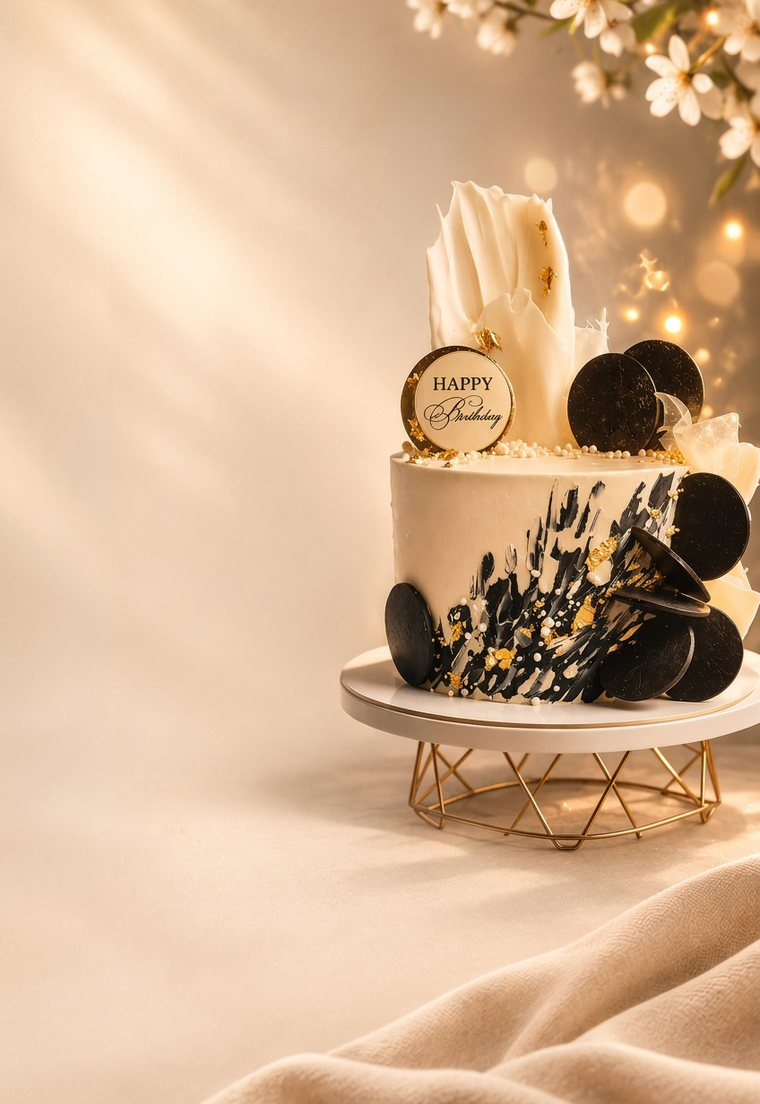
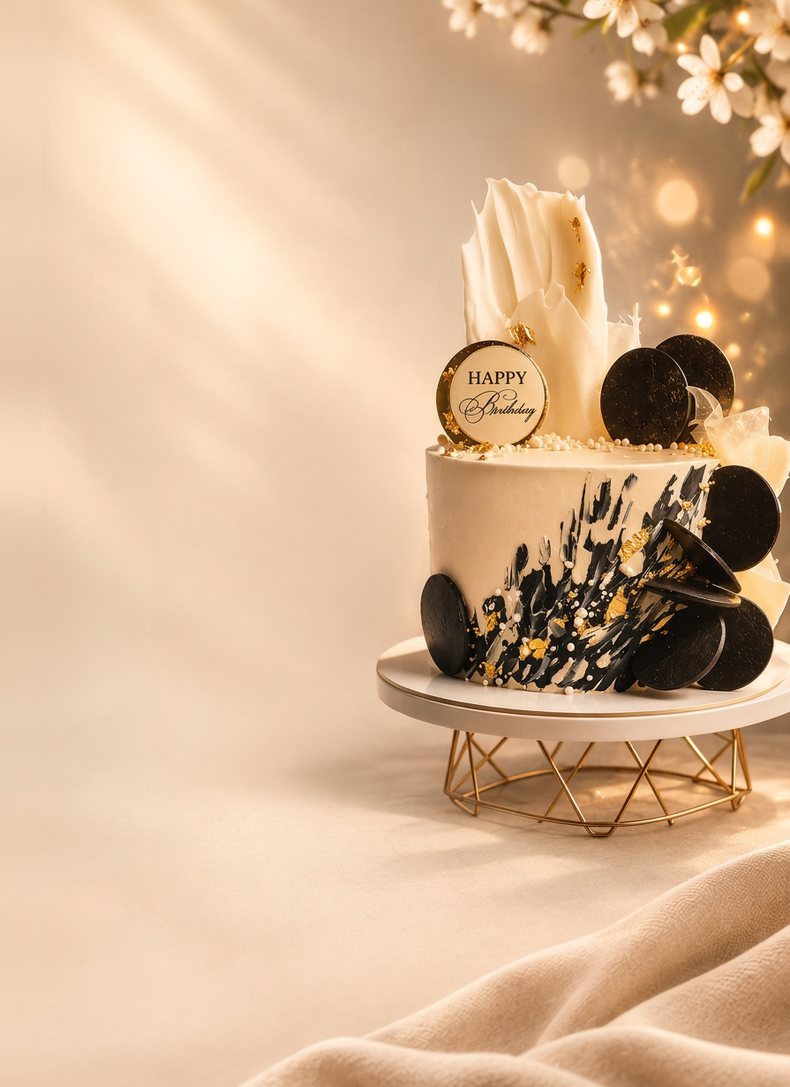
r19: заголовок не залезает на торт, мессенджеры без подписей, CTA «ЗАКАЗАТЬ»
- арт расширен полосой стены слева: торт ушёл правее, заголовок встал
  в три строки («Авторские / торты / и десерты») и больше не наезжает
- мессенджеры: только иконки по центру, волосяные разделители и лучи по краям;
  подписи WhatsApp/Telegram/MAX убраны
- «Индивидуальный подход» переехал под иконки мессенджеров
- CTA: «ЗАКАЗАТЬ» в стиле референса (Cormorant, капитель, золотистый тон)
- версии: final-fixes -> 20261116r19, sw r137

diff --git a/css/final-fixes.css b/css/final-fixes.css
@@ -1661,7 +1661,7 @@ html:not([data-theme="dark"]) body:has(.hero-tag) .price-card-note {
       linear-gradient(180deg, rgba(16, 10, 6, .34) 0%, rgba(16, 10, 6, 0) 14%);
   }
   [data-theme="dark"] body.mc-home .hero-art::after {
-    background: linear-gradient(180deg, rgba(14, 9, 5, 0) 40%, rgba(14, 9, 5, .4) 58%, rgba(14, 9, 5, .82) 74%, var(--cream) 88%);
+    background: linear-gradient(180deg, rgba(8, 5, 3, 0) 40%, rgba(8, 5, 3, .4) 58%, rgba(8, 5, 3, .82) 74%, #080503 88%);
   }
   /* кнопка на постере держит нижнюю линию, как в референсе */
   body.mc-home .hero .hero-actions { margin-top: 22px; }
@@ -1669,7 +1669,7 @@ html:not([data-theme="dark"]) body:has(.hero-tag) .price-card-note {
 
 @media (max-width: 768px) {
   /* текст держится левее торта, как на постере: длинные строки переносятся */
-  body.mc-home .hero-subtitle .hero-sub-4 { max-width: 54%; }
+  body.mc-home .hero-subtitle .hero-sub-4 { max-width: 100%; }
   body.mc-home .hero-features { max-width: 62%; }
   /* Подписи фич живут в две строки, как на постере: длинная третья строка
      уходила на торт. */
@@ -1745,9 +1745,88 @@ html:not([data-theme="dark"]) body:has(.hero-tag) .price-card-note {
 @media (max-width: 768px) {
   /* [r17-b] нижние строки героя уходят под торт: рейтинги, подпись, мессенджеры
      и CTA стоят на чистом свете, как на постере-референсе. */
-  body.mc-home .hero-trust { margin-top: 46px; }
+  body.mc-home .hero-trust { margin-top: 16px; }
   body.mc-home .hero-trust .hero-trust-badge { font-size: 12.5px; }
   body.mc-home .hero-trust .hero-trust-icon--yandex { width: 16px; height: 16px; font-size: 10px; }
   body.mc-home .hero-trust .hero-trust-rating { font-size: 13px; }
   body.mc-home .hero-trust .hero-trust-stars { font-size: 9px; letter-spacing: -.6px; }
 }
+
+/* ═══════════ [r19] Мессенджеры в герое как на постере: только иконки,
+   волосяные разделители и лучи по краям, подпись под ними. ═══════════ */
+@media (max-width: 768px) {
+  body.mc-home .hero-actions .btn-hero-wa::after,
+  body.mc-home .hero-actions .btn-hero-tg::after,
+  body.mc-home .hero-actions .btn-hero-max::after { content: none; }
+
+  body.mc-home .hero-actions .messenger-group--ring {
+    align-self: center;
+    justify-content: center;
+    gap: 24px;
+    margin-bottom: 4px;
+  }
+  body.mc-home .hero-actions .btn-hero-tg,
+  body.mc-home .hero-actions .btn-hero-max { margin: 0; }
+
+  /* вертикальные волоски между иконками */
+  body.mc-home .hero-actions .btn-hero-tg::before,
+  body.mc-home .hero-actions .btn-hero-max::before {
+    content: '';
+    position: absolute;
+    top: 50%;
+    left: -13px;
+    width: 1px;
+    height: 22px;
+    margin-top: -11px;
+    background: rgba(201, 147, 74, .42);
+    pointer-events: none;
+  }
+  /* короткие лучи по краям группы */
+  body.mc-home .hero-actions .btn-hero-wa::before {
+    content: '';
+    position: absolute;
+    top: 50%;
+    right: calc(100% + 17px);
+    width: 34px;
+    height: 1px;
+    background: linear-gradient(90deg, rgba(201, 147, 74, 0), rgba(201, 147, 74, .5));
+    pointer-events: none;
+  }
+  body.mc-home .hero-actions .btn-hero-max::after {
+    content: '';
+    position: absolute;
+    top: 50%;
+    left: calc(100% + 17px);
+    width: 34px;
+    height: 1px;
+    background: linear-gradient(90deg, rgba(201, 147, 74, .5), rgba(201, 147, 74, 0));
+    pointer-events: none;
+  }
+
+  /* подпись под иконками */
+  body.mc-home .hero-actions .hero-msg-caption {
+    display: block;
+    order: 2;
+    align-self: center;
+    margin-top: 10px;
+    font-family: 'Jost', sans-serif;
+    font-size: 9.5px;
+    font-weight: 400;
+    letter-spacing: .26em;
+    text-transform: uppercase;
+    color: var(--brown-light);
+    text-align: center;
+  }
+  /* CTA и подсказка съезжают на шаг, чтобы подпись встала между ними */
+  body.mc-home .hero .hero-actions .btn-primary.btn-primary--hero { order: 3; }
+  body.mc-home .hero-actions .btn-price-hint { order: 4; }
+  /* прежняя подпись под рейтингами больше не нужна */
+  body.mc-home .hero-trust .hero-trust-count { display: none; }
+
+  /* заголовок держится левее торта — три строки, как на референсе */
+  body.mc-home .hero-subtitle { max-width: 56%; }
+  body.mc-home .hero-subtitle .hero-sub-1 { display: block; }
+}
+
+/* [r19] подпись под мессенджерами живёт только в мобильном постере */
+.hero-msg-caption { display: none; }

diff --git a/index.html b/index.html
@@ -413,7 +413,7 @@
   <link rel="stylesheet" href="/css/v20-dark-and-fixes.css?v=20261116r10">
 <!-- Необязательная аналитика и LCP-телеметрия управляются согласием пользователя. -->
 <link rel="stylesheet" href="/css/v20-fixes.css?v=20260728r27">
-  <link rel="stylesheet" href="/css/final-fixes.css?v=20261116r18" />
+  <link rel="stylesheet" href="/css/final-fixes.css?v=20261116r19" />
   <!-- [P100] Детерминированный пропуск offscreen-layout на первом кадре:
        content-visibility:auto для секций ниже сгиба работает только до 2 кадров
        после FCP (или до первого взаимодействия / жёсткого таймаута 1500 мс),
@@ -594,7 +594,7 @@
   <div class="hero-art" aria-hidden="true">
     <picture>
       <source type="image/webp" srcset="img/hero-poster-cake.webp" />
-      <img src="img/hero-poster-cake.jpg" alt="" width="760" height="1104" fetchpriority="high" decoding="async" />
+      <img src="img/hero-poster-cake.jpg" alt="" width="790" height="1087" fetchpriority="high" decoding="async" />
     </picture>
   </div>
   <div class="hero-content">
@@ -619,7 +619,7 @@
         </div>
       </div>
       <div class="hero-actions">
-        <a href="#catalogGrid" class="btn-primary btn-primary--hero"><span class="btn-hero-bag" aria-hidden="true"><svg width="22" height="22" viewBox="0 0 24 24" fill="none" stroke="currentColor" stroke-width="1.45" stroke-linecap="round" stroke-linejoin="round"><path d="M4.7 8.5h14.6l-1.05 10.9a1.8 1.8 0 0 1-1.8 1.6H7.55a1.8 1.8 0 0 1-1.8-1.6z"/><path d="M8.7 8.5V6.7a3.3 3.3 0 0 1 6.6 0v1.8"/></svg></span><span class="btn-hero-divider" aria-hidden="true"></span><span class="btn-hero-label">Выбрать торт</span><span class="btn-hero-go" aria-hidden="true"><svg width="26" height="12" viewBox="0 0 26 12" fill="none" stroke="currentColor" stroke-width="1.35" stroke-linecap="round" stroke-linejoin="round"><path d="M1.2 6h22"/><path d="m19 1.9 4.2 4.1-4.2 4.1"/></svg></span></a>
+        <a href="#catalogGrid" class="btn-primary btn-primary--hero"><span class="btn-hero-bag" aria-hidden="true"><svg width="22" height="22" viewBox="0 0 24 24" fill="none" stroke="currentColor" stroke-width="1.45" stroke-linecap="round" stroke-linejoin="round"><path d="M4.7 8.5h14.6l-1.05 10.9a1.8 1.8 0 0 1-1.8 1.6H7.55a1.8 1.8 0 0 1-1.8-1.6z"/><path d="M8.7 8.5V6.7a3.3 3.3 0 0 1 6.6 0v1.8"/></svg></span><span class="btn-hero-divider" aria-hidden="true"></span><span class="btn-hero-label">Заказать</span><span class="btn-hero-go" aria-hidden="true"><svg width="26" height="12" viewBox="0 0 26 12" fill="none" stroke="currentColor" stroke-width="1.35" stroke-linecap="round" stroke-linejoin="round"><path d="M1.2 6h22"/><path d="m19 1.9 4.2 4.1-4.2 4.1"/></svg></span></a>
         <!-- AI DO NOT TOUCH R10: hero messengers must stay circular inline-SVG ring icons with brand colors: WA #25D366, TG #229ED9, MAX purple. Hover must lift the flat label upward. -->
         <div class="messenger-group messenger-group--ring" style="display:flex;gap:12px;align-items:center;">
           <a href="https://wa.me/79119038886?text=%D0%97%D0%B4%D1%80%D0%B0%D0%B2%D1%81%D1%82%D0%B2%D1%83%D0%B9%D1%82%D0%B5!%20%D0%A5%D0%BE%D1%87%D1%83%20%D0%B7%D0%B0%D0%BA%D0%B0%D0%B7%D0%B0%D1%82%D1%8C%20%D1%82%D0%BE%D1%80%D1%82" target="_blank" rel="noopener noreferrer" class="btn-hero-messenger btn-hero-wa btn-hero-ring" aria-label="Написать в WhatsApp">
@@ -653,6 +653,7 @@
             </svg>
           </a>
         </div>
+        <span class="hero-msg-caption">Индивидуальный подход</span>
     </div>
     <div class="hero-trust" style="display:flex;align-items:center;gap:10px;margin-top:14px;">
       <a href="https://yandex.ru/maps/org/milovi_cake_torty_na_zakaz/89655951103/reviews/" target="_blank" rel="noopener noreferrer" class="hero-trust-badge" aria-label="Яндекс Карты: рейтинг 4.8 из 5">

diff --git a/meringue-roll/index.html b/meringue-roll/index.html
@@ -1816,7 +1816,7 @@
   <link rel="stylesheet" href="/css/premium-overrides.css?v=20261116r07" />
   <link rel="stylesheet" href="/css/v20-dark-and-fixes.css?v=20261116r10">
   <link rel="stylesheet" href="/css/v20-fixes.css?v=20260728r27">
-  <link rel="stylesheet" href="/css/final-fixes.css?v=20261116r18" />
+  <link rel="stylesheet" href="/css/final-fixes.css?v=20261116r19" />
 <style id="lp-theme-toggle-css">
 .lp-theme-toggle{display:inline-flex;align-items:center;justify-content:center;width:38px;height:38px;min-width:38px;border-radius:50%;border:1px solid rgba(201,147,74,.3);background:rgba(255,255,255,.04);color:var(--gold,#c9934a);cursor:pointer;padding:0;flex-shrink:0;margin-left:auto;-webkit-tap-highlight-color:transparent;transition:border-color .2s,background .2s,transform .15s}
 .lp-theme-toggle:hover{border-color:var(--gold,#c9934a);background:rgba(201,147,74,.1)}

diff --git a/sw.js b/sw.js
@@ -7,7 +7,7 @@
      - skipWaiting + clients.claim → обновления подхватываются мгновенно
    ═══════════════════════════════════════════════════════════════════════ */
 
-const CACHE_NAME = 'milovi-cake-v2026.11.16-r136';
+const CACHE_NAME = 'milovi-cake-v2026.11.16-r137';
 
 const PRECACHE = [
   '/',
@@ -18,7 +18,7 @@ const PRECACHE = [
   '/css/premium-overrides.css?v=20261116r07',
   '/css/v20-dark-and-fixes.css?v=20261116r10',
   '/css/v20-fixes.css?v=20260728r27',
-  '/css/final-fixes.css?v=20261116r18',
+  '/css/final-fixes.css?v=20261116r19',
   '/css/gallery/gallery-2026.css?v=20261116r06',
   '/js/main.js?v=20261116r17',
   '/js/nav.js?v=20261116r17',

diff --git a/prigorody/index.html b/prigorody/index.html
@@ -197,7 +197,7 @@
   </script>
 
   <link rel="stylesheet" href="/css/v20-fixes.css?v=20260728r27">
-  <link rel="stylesheet" href="/css/final-fixes.css?v=20261116r18" />
+  <link rel="stylesheet" href="/css/final-fixes.css?v=20261116r19" />
   <!-- [P100] Детерминированный пропуск offscreen-layout на первом кадре:
        content-visibility:auto для секций ниже сгиба работает только до 2 кадров
        после FCP (или до первого взаимодействия / жёсткого таймаута 1500 мс),

diff --git a/gallery/index.html b/gallery/index.html
@@ -140,7 +140,7 @@
   })();
   </script>
   <link rel="stylesheet" href="/css/gallery/gallery-2026.css?v=20261116r06" />
-  <link rel="stylesheet" href="/css/final-fixes.css?v=20261116r18" />
+  <link rel="stylesheet" href="/css/final-fixes.css?v=20261116r19" />
 <style id="gallery-stable-fonts">
 /* The gallery uses deterministic local font stacks. Remote webfont activation after
    first paint caused an intermittent 0.21 CLS shift in production Lighthouse. The

diff --git a/prigorody/_template.html b/prigorody/_template.html
@@ -135,7 +135,7 @@
   }
   </script>
   <link rel="stylesheet" href="/css/v20-fixes.css?v=20260728r27">
-  <link rel="stylesheet" href="/css/final-fixes.css?v=20261116r18" />
+  <link rel="stylesheet" href="/css/final-fixes.css?v=20261116r19" />
   <style id="suburb-a11y-contrast">
     :root:not([data-theme="dark"]) .prigorody-page .calc-opt.selected{color:#2c1a10}
     :root:not([data-theme="dark"]) .prigorody-page .calc-stepper-val{color:#8a5723}

diff --git a/prigorody/gatchina/index.html b/prigorody/gatchina/index.html
@@ -135,7 +135,7 @@
   }
   </script>
   <link rel="stylesheet" href="/css/v20-fixes.css?v=20260728r27">
-  <link rel="stylesheet" href="/css/final-fixes.css?v=20261116r18" />
+  <link rel="stylesheet" href="/css/final-fixes.css?v=20261116r19" />
   <style id="suburb-a11y-contrast">
     :root:not([data-theme="dark"]) .prigorody-page .calc-opt.selected{color:#2c1a10}
     :root:not([data-theme="dark"]) .prigorody-page .calc-stepper-val{color:#8a5723}

diff --git a/prigorody/kolpino/index.html b/prigorody/kolpino/index.html
@@ -135,7 +135,7 @@
   }
   </script>
   <link rel="stylesheet" href="/css/v20-fixes.css?v=20260728r27">
-  <link rel="stylesheet" href="/css/final-fixes.css?v=20261116r18" />
+  <link rel="stylesheet" href="/css/final-fixes.css?v=20261116r19" />
   <style id="suburb-a11y-contrast">
     :root:not([data-theme="dark"]) .prigorody-page .calc-opt.selected{color:#2c1a10}
     :root:not([data-theme="dark"]) .prigorody-page .calc-stepper-val{color:#8a5723}

diff --git a/prigorody/krasnoe-selo/index.html b/prigorody/krasnoe-selo/index.html
@@ -135,7 +135,7 @@
   }
   </script>
   <link rel="stylesheet" href="/css/v20-fixes.css?v=20260728r27">
-  <link rel="stylesheet" href="/css/final-fixes.css?v=20261116r18" />
+  <link rel="stylesheet" href="/css/final-fixes.css?v=20261116r19" />
   <style id="suburb-a11y-contrast">
     :root:not([data-theme="dark"]) .prigorody-page .calc-opt.selected{color:#2c1a10}
     :root:not([data-theme="dark"]) .prigorody-page .calc-stepper-val{color:#8a5723}

diff --git a/prigorody/kronshtadt/index.html b/prigorody/kronshtadt/index.html
@@ -135,7 +135,7 @@
   }
   </script>
   <link rel="stylesheet" href="/css/v20-fixes.css?v=20260728r27">
-  <link rel="stylesheet" href="/css/final-fixes.css?v=20261116r18" />
+  <link rel="stylesheet" href="/css/final-fixes.css?v=20261116r19" />
   <style id="suburb-a11y-contrast">
     :root:not([data-theme="dark"]) .prigorody-page .calc-opt.selected{color:#2c1a10}
     :root:not([data-theme="dark"]) .prigorody-page .calc-stepper-val{color:#8a5723}

diff --git a/prigorody/kudrovo/index.html b/prigorody/kudrovo/index.html
@@ -135,7 +135,7 @@
   }
   </script>
   <link rel="stylesheet" href="/css/v20-fixes.css?v=20260728r27">
-  <link rel="stylesheet" href="/css/final-fixes.css?v=20261116r18" />
+  <link rel="stylesheet" href="/css/final-fixes.css?v=20261116r19" />
   <style id="suburb-a11y-contrast">
     :root:not([data-theme="dark"]) .prigorody-page .calc-opt.selected{color:#2c1a10}
     :root:not([data-theme="dark"]) .prigorody-page .calc-stepper-val{color:#8a5723}
